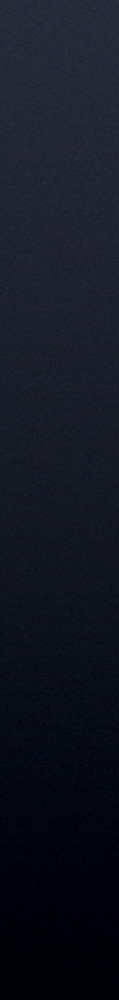
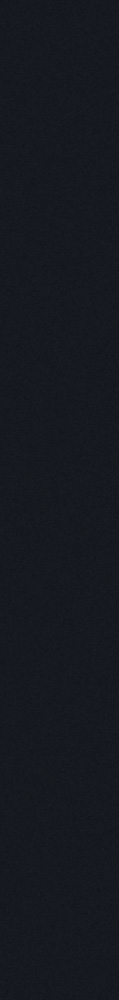
New layout (looks much better)

Changed region(s): [[0.0, 0.806, 1.0, 1.0], [0.0, 0.0, 1.0, 0.155]]

diff --git a/_layouts/default.html b/_layouts/default.html
@@ -22,28 +22,30 @@
 
 <body>
 
-<div id="wrapper">
-	<div id="header">
-		<a href="http://mutelight.org" title="Mutelight"><img src="/images/header.png" alt="Mutelight Logo" /></a>
-	</div>
+<div id="radial">
+    <div id="wrapper">
+        <div id="header">
+            <a href="http://mutelight.org" title="Mutelight"><img src="/images/header.png" alt="Mutelight Logo" /></a>
+        </div>
 
-{{ content }}
+    {{ content }}
 
-	<div id="about">
-		<h1 class="hide">About</h1>
+        <div id="about">
+            <h1 class="hide">About</h1>
 
-		<p class="important">I'm <strong>Brandur Leach</strong>, an engineer and developer operating out of Calgary, Canada doing work primarily in C#/.NET.</p>
+            <p class="important">I'm <strong>Brandur Leach</strong>, an engineer and developer operating out of Calgary, Canada doing work primarily in C#/.NET.</p>
 
-		<p>My current learning focus is functional languages like Erlang, Haskell, and F#. At the moment I'm working on building an online presence and launching a health and fitness blog.</p>
+            <p>My current learning focus is functional languages like Erlang, Haskell, and F#. At the moment I'm working on building an online presence and launching a health and fitness blog.</p>
 
-		<p>I like <a href="http://flickr.com/photos/brandurleach" title="Brandur on Flickr">photography</a>, <a href="http://github.com/fyrerise" title="Brandur on GitHub">coding</a>, listening to power and symphonic metal, and tennis. In general I prefer working on systems with a terminal, but I spend most of my time under Windows at work. Everything that I write is done in Vim.</p>
+            <p>I like <a href="http://flickr.com/photos/brandurleach" title="Brandur on Flickr">photography</a>, <a href="http://github.com/fyrerise" title="Brandur on GitHub">coding</a>, listening to power and symphonic metal, and tennis. In general I prefer working on systems with a terminal, but I spend most of my time under Windows at work. Everything that I write is done in Vim.</p>
 
-		<div id="articles"><a href="/archive.html" title="Article archive">Archive &rarr;</a></div>
+            <div id="articles"><a href="/archive.html" title="Article archive">Archive &rarr;</a></div>
 
-		<p>E-mail me anytime at <strong class="mail">brandur@mutelight.org</strong>.</p>
-	</div>
+            <p>E-mail me anytime at <strong class="mail">brandur@mutelight.org</strong>.</p>
+        </div>
 
-	<br /><br />
+        <br /><br />
+    </div>
 </div>
 
 

diff --git a/css/screen.css b/css/screen.css
@@ -27,7 +27,7 @@ body
 	color: #a9a9a8;
 	font-family: tahoma, sans-serif;
 	font-size: 11px;
-	background: #000 url('/images/back.jpg') repeat-x;
+	background: #000 url('/images/back.jpg') repeat;
 	margin: 0;
 	padding: 0;
 	border: 0;
@@ -44,7 +44,7 @@ h1
 	font-family: georgia, serif;
 	font-size: 20px;
 	font-weight: normal;
-	padding: 0 5px 0 5px;
+	padding: 0 12px;
 }
 
 h2
@@ -103,7 +103,8 @@ div.content
 	font-size: 12px;
 	border-bottom: 2px solid #3c253b;
 	border-top: 2px solid #3c253b;
-	padding: 0 5px 0px 5px;
+    margin: 0 7px;
+	padding: 0 5px;
 }
 
 	div.content ul, div.content ol
@@ -128,10 +129,7 @@ div.content
 	{
 		color: #fff;
 		font-style: italic;
-		margin-left: 12px;
-		margin-right: 12px;
-		margin-top: 20px;
-		margin-bottom: 20px;
+		margin: 20px 19px;
 	}
 
  
@@ -141,7 +139,7 @@ div.figure
 	border: 1px solid #3c253b;
 	font-size: 8pt;
 	margin: 0;
-	padding: 14px 9px;
+	padding: 14px 16px;
 	position: relative;
 }
 
@@ -159,14 +157,14 @@ div.figure
 ul.article
 {
 	list-style-type: none;
-	margin: 0;
+	margin: 0 10px 0 10px;
 	padding: 0 0 10px 0;
 	border-top: 1px solid #3c253b;
 }
 
 ul.article li
 {
-	padding: 7px 5px 7px 5px;
+	padding: 7px 10px;
 	border-bottom: 1px solid #3c253b;
 }
 
@@ -192,16 +190,23 @@ ul.content
 
 ul.content li
 {
-	padding: 7px 5px 7px 5px;
+	padding: 7px 10px;
 	border-bottom: 1px solid #1f081e;
 	vertical-align: middle;
 }
 
 /*****************************************************************************/
 
+div#radial
+{
+	background: transparent url('/images/radial.jpg') no-repeat;
+	width: 868px;
+	margin: 0 auto;
+}
+
 div#wrapper
 {
-	width: 464px;
+	width: 478px;
 	margin: 0 auto;
 }
 
@@ -210,11 +215,12 @@ div#wrapper
 		font-family: arial, sans-serif;
 		line-height: 1.5em;
 		font-size: 12px;
-		background: #240d23;
+		background: #20232d;
 		position: relative;
 		top: 9px;
-		height: 230px;
-		padding: 3px 12px 0 12px;
+		height: 225px;
+		margin: 0 10px;
+		padding: 3px 10px 0 10px;
 		/* all opacity attributes */
 		opacity: 0.8;
 		filter:alpha(opacity=80);
@@ -234,7 +240,7 @@ div#wrapper
 			display: block;
 			text-align: center;
 			line-height: 22px;
-			background: #341d33;
+			background: #30333d;
 			width: 80px;
 			margin: -2px 0 0 0;
 		}

diff --git a/_layouts/post.html b/_layouts/post.html
@@ -1,15 +1,15 @@
 ---
 layout: default
 ---
-		<h1>{{ page.title }}</h1>
-		<div class="content">
-{{ content }}
-            <p class="meta">Posted on <strong>{{ page.date | date: "%B %d, %Y" }}</strong> from <strong>{{ page.location }}</strong></p>
-		</div>
+            <h1>{{ page.title }}</h1>
+            <div class="content">
+    {{ content }}
+                <p class="meta">Posted on <strong>{{ page.date | date: "%B %d, %Y" }}</strong> from <strong>{{ page.location }}</strong></p>
+            </div>
 
-		<h1>Related Articles</h1>
-		<ul class="article">
-			{% for post in site.related_posts limit:3 %}
-			<li><a href="{{ post.url}}" title="{{ post.title }}">{{ post.title }}</a> <span class="alternate">&mdash; {{ post.date | date: "%B %d, %Y" }}</span></li>
-			{% endfor %}
-		</ul>
+            <h1>Related Articles</h1>
+            <ul class="article">
+                {% for post in site.related_posts limit:3 %}
+                <li><a href="{{ post.url}}" title="{{ post.title }}">{{ post.title }}</a> <span class="alternate">&mdash; {{ post.date | date: "%B %d, %Y" }}</span></li>
+                {% endfor %}
+            </ul>
